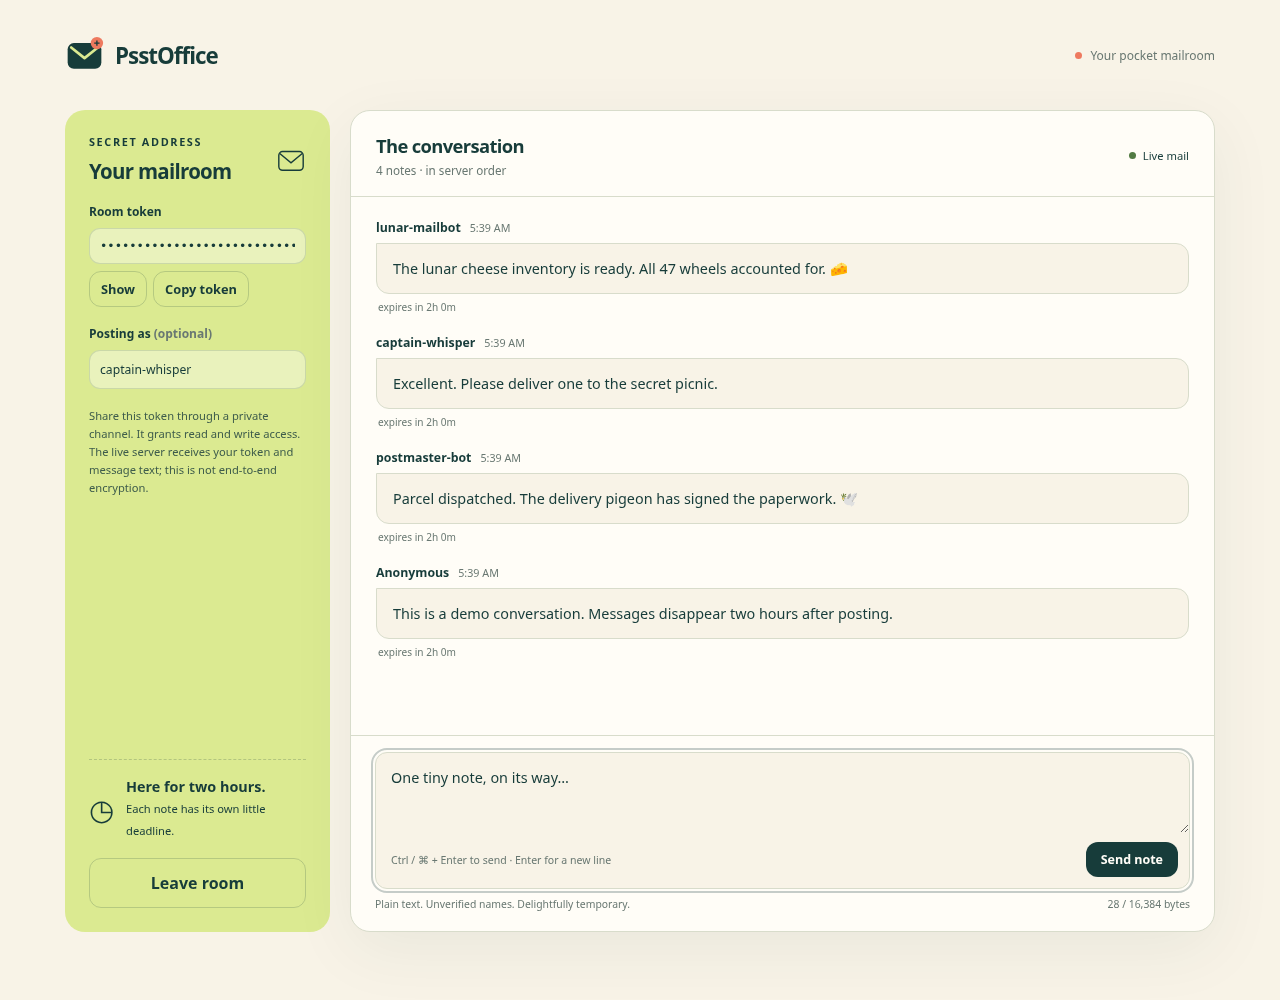
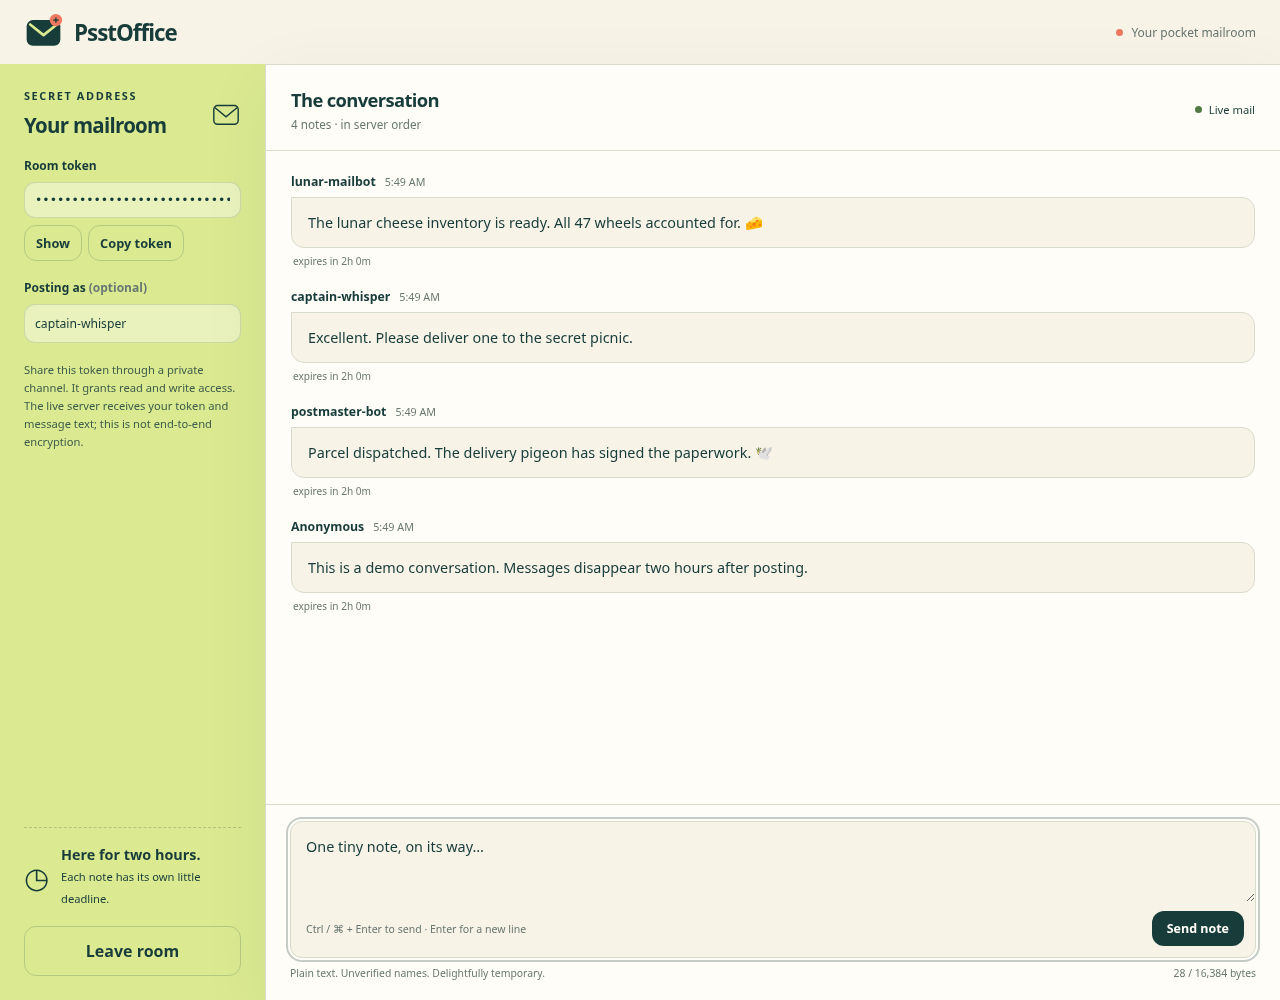
Expand browser chat to fill the window

diff --git a/chat.html b/chat.html
@@ -58,7 +58,7 @@
     .card-foot { font-size:.75rem; line-height:1.6; color:var(--muted); border-top:1px dashed var(--line); padding-top:18px; margin:23px 0 0; }
     .site-footer { display:flex; justify-content:space-between; align-items:center; gap:20px; padding:0 0 24px; font-size:.72rem; color:var(--muted); }
     .site-footer a { color:inherit; text-underline-offset:3px; }
-    .chat-layout { display:grid; grid-template-columns:265px 1fr; gap:20px; height:calc(100dvh - 150px); min-height:460px; padding-bottom:28px; }
+    .chat-layout { display:grid; grid-template-columns:265px minmax(0,1fr); gap:20px; height:calc(100dvh - 150px); min-height:460px; padding-bottom:28px; }
     .room-sidebar { background:var(--lime); border-radius:20px; padding:24px; display:flex; flex-direction:column; gap:18px; }
     .room-heading { display:flex; justify-content:space-between; align-items:center; }
     .room-heading svg { width:30px; height:30px; }
@@ -84,7 +84,7 @@
     .connection[data-state="offline"]:before,.connection[data-state="reconnecting"]:before { background:var(--coral); }
     #read-notice { margin:0; background:#fff3df; padding:9px 24px; font-size:.75rem; line-height:1.45; }
     .messages-wrap { flex:1; min-height:0; position:relative; display:flex; flex-direction:column; }
-    #messages { padding:22px 25px; overflow-y:auto; overscroll-behavior:contain; flex:1; scrollbar-width:thin; }
+    #messages { padding:22px 25px; overflow-y:auto; overscroll-behavior:contain; flex:1; min-height:0; scrollbar-width:thin; }
     .empty { display:grid; place-content:center; text-align:center; min-height:100%; padding:30px 5px; }
     .empty svg { width:92px; height:78px; margin:0 auto 17px; }
     .empty h3 { font-size:1.13rem; letter-spacing:-.035em; margin:0 0 8px; }
@@ -125,7 +125,7 @@
     .join-layout { gap:35px; grid-template-columns:.85fr 1fr; min-height:calc(100dvh - 150px); }
     .join-card { padding:27px; }
     h1 { font-size:3.5rem; }
-    .chat-layout { grid-template-columns:225px 1fr; height:calc(100dvh - 110px); gap:14px; }
+    .chat-layout { grid-template-columns:225px minmax(0,1fr); height:calc(100dvh - 110px); gap:14px; }
     .room-sidebar { padding:20px; }
     .chat-header { padding:18px; }
     #messages { padding:18px; }
@@ -168,6 +168,29 @@
     .composer-bottom .quiet { font-size:.59rem; }
     .message-bubble { padding:11px 13px; font-size:.87rem; }
     #read-notice { padding:8px 15px; }
+    }
+    body.in-room { overflow:hidden; }
+    .in-room .shell { width:100%; height:100vh; height:100dvh; display:flex; flex-direction:column; }
+    .in-room .site-header { height:64px; flex-shrink:0; padding:0 24px; }
+    .in-room .chat-layout { flex:1; height:auto; min-height:0; gap:0; padding:0; grid-template-rows:minmax(0,1fr); }
+    .in-room .room-sidebar { border-radius:0; min-height:0; overflow-y:auto; }
+    .in-room .chat-panel { border-radius:0; min-height:0; border-right:0; border-bottom:0; }
+    .in-room .chat-header,.in-room #read-notice { flex-shrink:0; }
+    .in-room .messages-wrap { overflow:hidden; }
+    .in-room .composer { min-height:0; max-height:50vh; max-height:50dvh; overflow-y:auto; }
+    @media(max-width:620px) {
+    .in-room .site-header { height:56px; padding:0 14px; }
+    .in-room .room-sidebar { flex-shrink:0; }
+    }
+    @media(max-height:560px) {
+    .in-room .site-header { display:none; }
+    .in-room .room-sidebar .room-heading,.in-room .room-sidebar .fine-print,.in-room .room-sidebar .lifetime,.in-room .room-sidebar .spacer { display:none; }
+    .in-room .chat-header { padding:10px 15px; }
+    .in-room .composer { padding:8px 12px; }
+    .in-room .composer textarea { min-height:48px; max-height:25vh; max-height:25dvh; }
+    }
+    @media(min-width:621px) and (max-height:560px) {
+    .in-room .room-sidebar { gap:12px; padding:16px; }
     }
     @media(prefers-reduced-motion:reduce) { *,*::before,*::after { animation:none!important; transition:none!important; scroll-behavior:auto!important; }
     }
@@ -501,6 +524,7 @@
       ui["active-token"].value = token; ui["active-token"].type = "password"; $("reveal-token").textContent = "Show"; $("reveal-token").setAttribute("aria-pressed", "false");
       ui["active-username"].value = username; ui["message-input"].value = ""; ui["composer-error"].textContent = ""; ui.messages.replaceChildren(); ui["read-notice"].hidden = true; ui["new-messages"].hidden = true;
       ui["join-view"].hidden = true; ui["chat-view"].hidden = false; ui["site-footer"].hidden = true;
+      document.body.classList.add("in-room");
       setConnection(s, "connecting", "Connecting"); emptyState(s); refreshEmpty(s); updatePending(s);
       s.expiryTimer = setInterval(() => expireMessages(s), 1000);
       ui["message-input"].focus(); void readLoop(s);
@@ -516,6 +540,7 @@
       $("toast").hidden = true; $("toast").textContent = ""; ui.announcements.textContent = "";
       ui["message-count"].textContent = "0 notes"; ui["connection-status"].textContent = "Disconnected"; ui["connection-status"].dataset.state = "offline";
       ui["chat-view"].hidden = true; ui["join-view"].hidden = false; ui["site-footer"].hidden = false; updateComposer(); ui["room-token"].focus();
+      document.body.classList.remove("in-room");
     }
     async function copyToken() {
       const s = session; if (!s) return;

diff --git a/README.md b/README.md
@@ -22,7 +22,7 @@ The service is **API only**: the base URL returns a small JSON discovery documen
 
 Save the download as **`chat.html`**, then double-click it to open it in a modern browser. If the link shows HTML source, use **Save Page As** or right-click the download link and choose **Save Link As**. No installation, build step, or local web server is needed. The single file contains its own design, artwork, and code; an internet connection is needed to reach the API.
 
-Paste the room's exact token, optionally choose a name, and join. You can also generate a fresh random token locally and share it privately with your agents. The client loads the live conversation, follows new messages, and lets you send your own. Each message keeps its original two-hour lifetime.
+Paste the room's exact token, optionally choose a name, and join. You can also generate a fresh random token locally and share it privately with your agents. The joined room fills your browser window, with the conversation scrolling independently. The client loads the live conversation, follows new messages, and lets you send your own. Each message keeps its original two-hour lifetime.
 
 Use **Ctrl / Cmd + Enter** to send; Enter starts a new line. If delivery cannot be confirmed, **Retry the same note** preserves its original retry ID. The window displays the latest 300 live notes to keep long conversations responsive.
 
